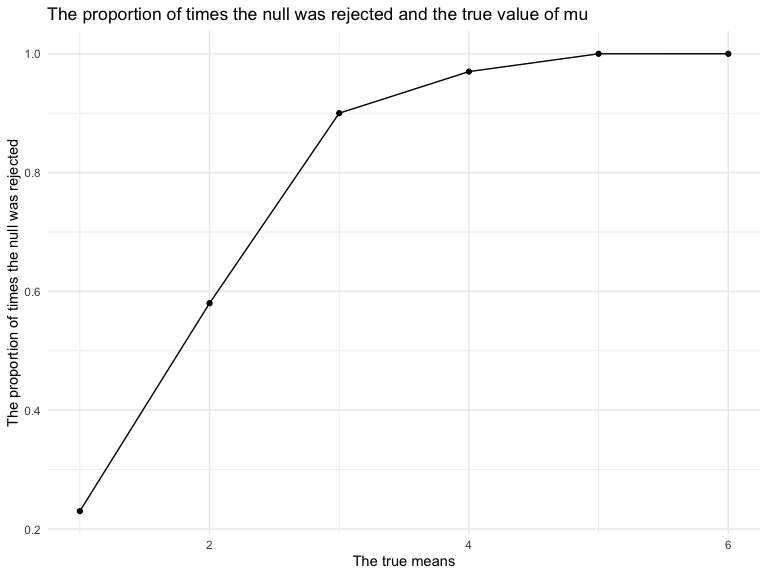
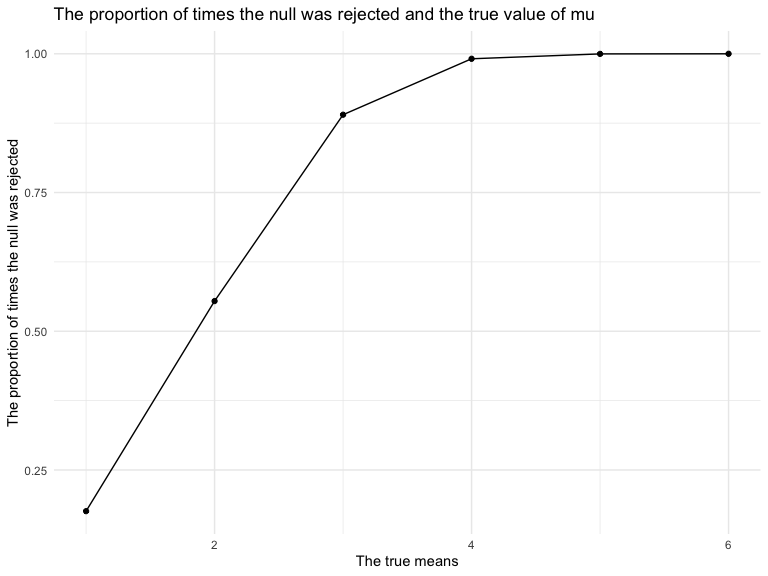
change the iteration to 5000

diff --git a/p8105_hw5_yc4016.md b/p8105_hw5_yc4016.md
@@ -15,147 +15,6 @@ full_df =
   unnest()
 ```
 
-    ## Rows: 1 Columns: 8
-    ## ── Column specification ────────────────────────────────────────────────────────
-    ## Delimiter: ","
-    ## dbl (8): week_1, week_2, week_3, week_4, week_5, week_6, week_7, week_8
-    ## 
-    ## ℹ Use `spec()` to retrieve the full column specification for this data.
-    ## ℹ Specify the column types or set `show_col_types = FALSE` to quiet this message.
-    ## Rows: 1 Columns: 8
-    ## ── Column specification ────────────────────────────────────────────────────────
-    ## Delimiter: ","
-    ## dbl (8): week_1, week_2, week_3, week_4, week_5, week_6, week_7, week_8
-    ## 
-    ## ℹ Use `spec()` to retrieve the full column specification for this data.
-    ## ℹ Specify the column types or set `show_col_types = FALSE` to quiet this message.
-    ## Rows: 1 Columns: 8
-    ## ── Column specification ────────────────────────────────────────────────────────
-    ## Delimiter: ","
-    ## dbl (8): week_1, week_2, week_3, week_4, week_5, week_6, week_7, week_8
-    ## 
-    ## ℹ Use `spec()` to retrieve the full column specification for this data.
-    ## ℹ Specify the column types or set `show_col_types = FALSE` to quiet this message.
-    ## Rows: 1 Columns: 8
-    ## ── Column specification ────────────────────────────────────────────────────────
-    ## Delimiter: ","
-    ## dbl (8): week_1, week_2, week_3, week_4, week_5, week_6, week_7, week_8
-    ## 
-    ## ℹ Use `spec()` to retrieve the full column specification for this data.
-    ## ℹ Specify the column types or set `show_col_types = FALSE` to quiet this message.
-    ## Rows: 1 Columns: 8
-    ## ── Column specification ────────────────────────────────────────────────────────
-    ## Delimiter: ","
-    ## dbl (8): week_1, week_2, week_3, week_4, week_5, week_6, week_7, week_8
-    ## 
-    ## ℹ Use `spec()` to retrieve the full column specification for this data.
-    ## ℹ Specify the column types or set `show_col_types = FALSE` to quiet this message.
-    ## Rows: 1 Columns: 8
-    ## ── Column specification ────────────────────────────────────────────────────────
-    ## Delimiter: ","
-    ## dbl (8): week_1, week_2, week_3, week_4, week_5, week_6, week_7, week_8
-    ## 
-    ## ℹ Use `spec()` to retrieve the full column specification for this data.
-    ## ℹ Specify the column types or set `show_col_types = FALSE` to quiet this message.
-    ## Rows: 1 Columns: 8
-    ## ── Column specification ────────────────────────────────────────────────────────
-    ## Delimiter: ","
-    ## dbl (8): week_1, week_2, week_3, week_4, week_5, week_6, week_7, week_8
-    ## 
-    ## ℹ Use `spec()` to retrieve the full column specification for this data.
-    ## ℹ Specify the column types or set `show_col_types = FALSE` to quiet this message.
-    ## Rows: 1 Columns: 8
-    ## ── Column specification ────────────────────────────────────────────────────────
-    ## Delimiter: ","
-    ## dbl (8): week_1, week_2, week_3, week_4, week_5, week_6, week_7, week_8
-    ## 
-    ## ℹ Use `spec()` to retrieve the full column specification for this data.
-    ## ℹ Specify the column types or set `show_col_types = FALSE` to quiet this message.
-    ## Rows: 1 Columns: 8
-    ## ── Column specification ────────────────────────────────────────────────────────
-    ## Delimiter: ","
-    ## dbl (8): week_1, week_2, week_3, week_4, week_5, week_6, week_7, week_8
-    ## 
-    ## ℹ Use `spec()` to retrieve the full column specification for this data.
-    ## ℹ Specify the column types or set `show_col_types = FALSE` to quiet this message.
-    ## Rows: 1 Columns: 8
-    ## ── Column specification ────────────────────────────────────────────────────────
-    ## Delimiter: ","
-    ## dbl (8): week_1, week_2, week_3, week_4, week_5, week_6, week_7, week_8
-    ## 
-    ## ℹ Use `spec()` to retrieve the full column specification for this data.
-    ## ℹ Specify the column types or set `show_col_types = FALSE` to quiet this message.
-    ## Rows: 1 Columns: 8
-    ## ── Column specification ────────────────────────────────────────────────────────
-    ## Delimiter: ","
-    ## dbl (8): week_1, week_2, week_3, week_4, week_5, week_6, week_7, week_8
-    ## 
-    ## ℹ Use `spec()` to retrieve the full column specification for this data.
-    ## ℹ Specify the column types or set `show_col_types = FALSE` to quiet this message.
-    ## Rows: 1 Columns: 8
-    ## ── Column specification ────────────────────────────────────────────────────────
-    ## Delimiter: ","
-    ## dbl (8): week_1, week_2, week_3, week_4, week_5, week_6, week_7, week_8
-    ## 
-    ## ℹ Use `spec()` to retrieve the full column specification for this data.
-    ## ℹ Specify the column types or set `show_col_types = FALSE` to quiet this message.
-    ## Rows: 1 Columns: 8
-    ## ── Column specification ────────────────────────────────────────────────────────
-    ## Delimiter: ","
-    ## dbl (8): week_1, week_2, week_3, week_4, week_5, week_6, week_7, week_8
-    ## 
-    ## ℹ Use `spec()` to retrieve the full column specification for this data.
-    ## ℹ Specify the column types or set `show_col_types = FALSE` to quiet this message.
-    ## Rows: 1 Columns: 8
-    ## ── Column specification ────────────────────────────────────────────────────────
-    ## Delimiter: ","
-    ## dbl (8): week_1, week_2, week_3, week_4, week_5, week_6, week_7, week_8
-    ## 
-    ## ℹ Use `spec()` to retrieve the full column specification for this data.
-    ## ℹ Specify the column types or set `show_col_types = FALSE` to quiet this message.
-    ## Rows: 1 Columns: 8
-    ## ── Column specification ────────────────────────────────────────────────────────
-    ## Delimiter: ","
-    ## dbl (8): week_1, week_2, week_3, week_4, week_5, week_6, week_7, week_8
-    ## 
-    ## ℹ Use `spec()` to retrieve the full column specification for this data.
-    ## ℹ Specify the column types or set `show_col_types = FALSE` to quiet this message.
-    ## Rows: 1 Columns: 8
-    ## ── Column specification ────────────────────────────────────────────────────────
-    ## Delimiter: ","
-    ## dbl (8): week_1, week_2, week_3, week_4, week_5, week_6, week_7, week_8
-    ## 
-    ## ℹ Use `spec()` to retrieve the full column specification for this data.
-    ## ℹ Specify the column types or set `show_col_types = FALSE` to quiet this message.
-    ## Rows: 1 Columns: 8
-    ## ── Column specification ────────────────────────────────────────────────────────
-    ## Delimiter: ","
-    ## dbl (8): week_1, week_2, week_3, week_4, week_5, week_6, week_7, week_8
-    ## 
-    ## ℹ Use `spec()` to retrieve the full column specification for this data.
-    ## ℹ Specify the column types or set `show_col_types = FALSE` to quiet this message.
-    ## Rows: 1 Columns: 8
-    ## ── Column specification ────────────────────────────────────────────────────────
-    ## Delimiter: ","
-    ## dbl (8): week_1, week_2, week_3, week_4, week_5, week_6, week_7, week_8
-    ## 
-    ## ℹ Use `spec()` to retrieve the full column specification for this data.
-    ## ℹ Specify the column types or set `show_col_types = FALSE` to quiet this message.
-    ## Rows: 1 Columns: 8
-    ## ── Column specification ────────────────────────────────────────────────────────
-    ## Delimiter: ","
-    ## dbl (8): week_1, week_2, week_3, week_4, week_5, week_6, week_7, week_8
-    ## 
-    ## ℹ Use `spec()` to retrieve the full column specification for this data.
-    ## ℹ Specify the column types or set `show_col_types = FALSE` to quiet this message.
-    ## Rows: 1 Columns: 8
-    ## ── Column specification ────────────────────────────────────────────────────────
-    ## Delimiter: ","
-    ## dbl (8): week_1, week_2, week_3, week_4, week_5, week_6, week_7, week_8
-    ## 
-    ## ℹ Use `spec()` to retrieve the full column specification for this data.
-    ## ℹ Specify the column types or set `show_col_types = FALSE` to quiet this message.
-
 #### Tidy dataset
 
 ``` r
@@ -405,28 +264,29 @@ norm_results_0 =
   expand_grid(n = 30, 
               mu = 0, 
               sigma = 5,
-              iteration = 1:100) %>% 
+              iteration = 1:5000) %>% 
   mutate(estimate_df = map(mu, ~norm_mean_p(mu=.x))) %>% 
   unnest(estimate_df) 
 
 norm_results_0
 ```
 
-    ## # A tibble: 100 × 12
+    ## # A tibble: 5,000 × 12
     ##        n    mu sigma iteration estimate statis…¹ p.value param…² conf.…³ conf.…⁴
     ##    <dbl> <dbl> <dbl>     <int>    <dbl>    <dbl>   <dbl>   <dbl>   <dbl>   <dbl>
-    ##  1    30     0     5         1  1.76e-1  2.12e-1  0.834       29 -1.52      1.87
-    ##  2    30     0     5         2 -3.13e-1 -3.72e-1  0.713       29 -2.03      1.41
-    ##  3    30     0     5         3 -1.22e+0 -1.09e+0  0.284       29 -3.51      1.07
-    ##  4    30     0     5         4  7.98e-2  8.53e-2  0.933       29 -1.83      1.99
-    ##  5    30     0     5         5  9.33e-1  9.76e-1  0.337       29 -1.02      2.89
-    ##  6    30     0     5         6  7.24e-1  9.82e-1  0.334       29 -0.784     2.23
-    ##  7    30     0     5         7  7.12e-1  9.42e-1  0.354       29 -0.833     2.26
-    ##  8    30     0     5         8 -7.72e-4 -7.46e-4  0.999       29 -2.12      2.12
-    ##  9    30     0     5         9  2.05e+0  2.07e+0  0.0479      29  0.0207    4.08
-    ## 10    30     0     5        10  6.29e-1  8.28e-1  0.415       29 -0.925     2.18
-    ## # … with 90 more rows, 2 more variables: method <chr>, alternative <chr>, and
-    ## #   abbreviated variable names ¹statistic, ²parameter, ³conf.low, ⁴conf.high
+    ##  1    30     0     5         1  1.35     1.25     0.222       29  -0.863   3.56 
+    ##  2    30     0     5         2  0.295    0.360    0.721       29  -1.38    1.97 
+    ##  3    30     0     5         3  0.368    0.488    0.629       29  -1.17    1.91 
+    ##  4    30     0     5         4 -1.91    -2.50     0.0185      29  -3.47   -0.344
+    ##  5    30     0     5         5  0.255    0.373    0.712       29  -1.14    1.65 
+    ##  6    30     0     5         6  1.42     1.79     0.0835      29  -0.200   3.03 
+    ##  7    30     0     5         7  1.03     1.37     0.180       29  -0.505   2.57 
+    ##  8    30     0     5         8 -0.00168 -0.00151  0.999       29  -2.27    2.27 
+    ##  9    30     0     5         9  0.865    1.24     0.223       29  -0.557   2.29 
+    ## 10    30     0     5        10  0.172    0.199    0.844       29  -1.59    1.94 
+    ## # … with 4,990 more rows, 2 more variables: method <chr>, alternative <chr>,
+    ## #   and abbreviated variable names ¹statistic, ²parameter, ³conf.low,
+    ## #   ⁴conf.high
 
 #### Test mu = {1,2,3,4,5,6}
 
@@ -435,28 +295,29 @@ norm_results =
   expand_grid(n = 30, 
               mu = c(1,2,3,4,5,6),
               sigma = 5,
-              iteration = 1:100) %>% 
+              iteration = 1:5000) %>% 
   mutate(estimate_df = map(mu, ~norm_mean_p(mu=.x))) %>% 
   unnest(estimate_df)
 
 norm_results
 ```
 
-    ## # A tibble: 600 × 12
+    ## # A tibble: 30,000 × 12
     ##        n    mu sigma iteration estimate statis…¹ p.value param…² conf.…³ conf.…⁴
     ##    <dbl> <dbl> <dbl>     <int>    <dbl>    <dbl>   <dbl>   <dbl>   <dbl>   <dbl>
-    ##  1    30     1     5         1   1.37     1.54   0.135        29 -0.450     3.18
-    ##  2    30     1     5         2   3.11     2.98   0.00579      29  0.976     5.25
-    ##  3    30     1     5         3  -0.262   -0.302  0.764        29 -2.04      1.51
-    ##  4    30     1     5         4   0.853    0.969  0.341        29 -0.948     2.65
-    ##  5    30     1     5         5   1.85     2.10   0.0442       29  0.0516    3.66
-    ##  6    30     1     5         6  -0.0345  -0.0417 0.967        29 -1.73      1.66
-    ##  7    30     1     5         7   0.253    0.252  0.803        29 -1.80      2.31
-    ##  8    30     1     5         8   2.20     2.40   0.0229       29  0.328     4.08
-    ##  9    30     1     5         9   0.991    1.62   0.117        29 -0.264     2.25
-    ## 10    30     1     5        10   0.242    0.242  0.810        29 -1.80      2.29
-    ## # … with 590 more rows, 2 more variables: method <chr>, alternative <chr>, and
-    ## #   abbreviated variable names ¹statistic, ²parameter, ³conf.low, ⁴conf.high
+    ##  1    30     1     5         1    0.420    0.572  0.572       29 -1.08     1.92 
+    ##  2    30     1     5         2    2.20     2.11   0.0437      29  0.0663   4.33 
+    ##  3    30     1     5         3    1.81     2.08   0.0461      29  0.0333   3.59 
+    ##  4    30     1     5         4   -0.278   -0.250  0.804       29 -2.55     2.00 
+    ##  5    30     1     5         5    0.295    0.371  0.713       29 -1.33     1.92 
+    ##  6    30     1     5         6    0.665    0.625  0.537       29 -1.51     2.84 
+    ##  7    30     1     5         7    0.818    0.800  0.430       29 -1.27     2.91 
+    ##  8    30     1     5         8    2.73     2.60   0.0144      29  0.586    4.88 
+    ##  9    30     1     5         9    0.990    1.31   0.199       29 -0.551    2.53 
+    ## 10    30     1     5        10   -0.817   -1.00   0.323       29 -2.48     0.846
+    ## # … with 29,990 more rows, 2 more variables: method <chr>, alternative <chr>,
+    ## #   and abbreviated variable names ¹statistic, ²parameter, ³conf.low,
+    ## #   ⁴conf.high
 
 #### Plot showing the proportion of times the null was rejected and the true value of mu.
 
